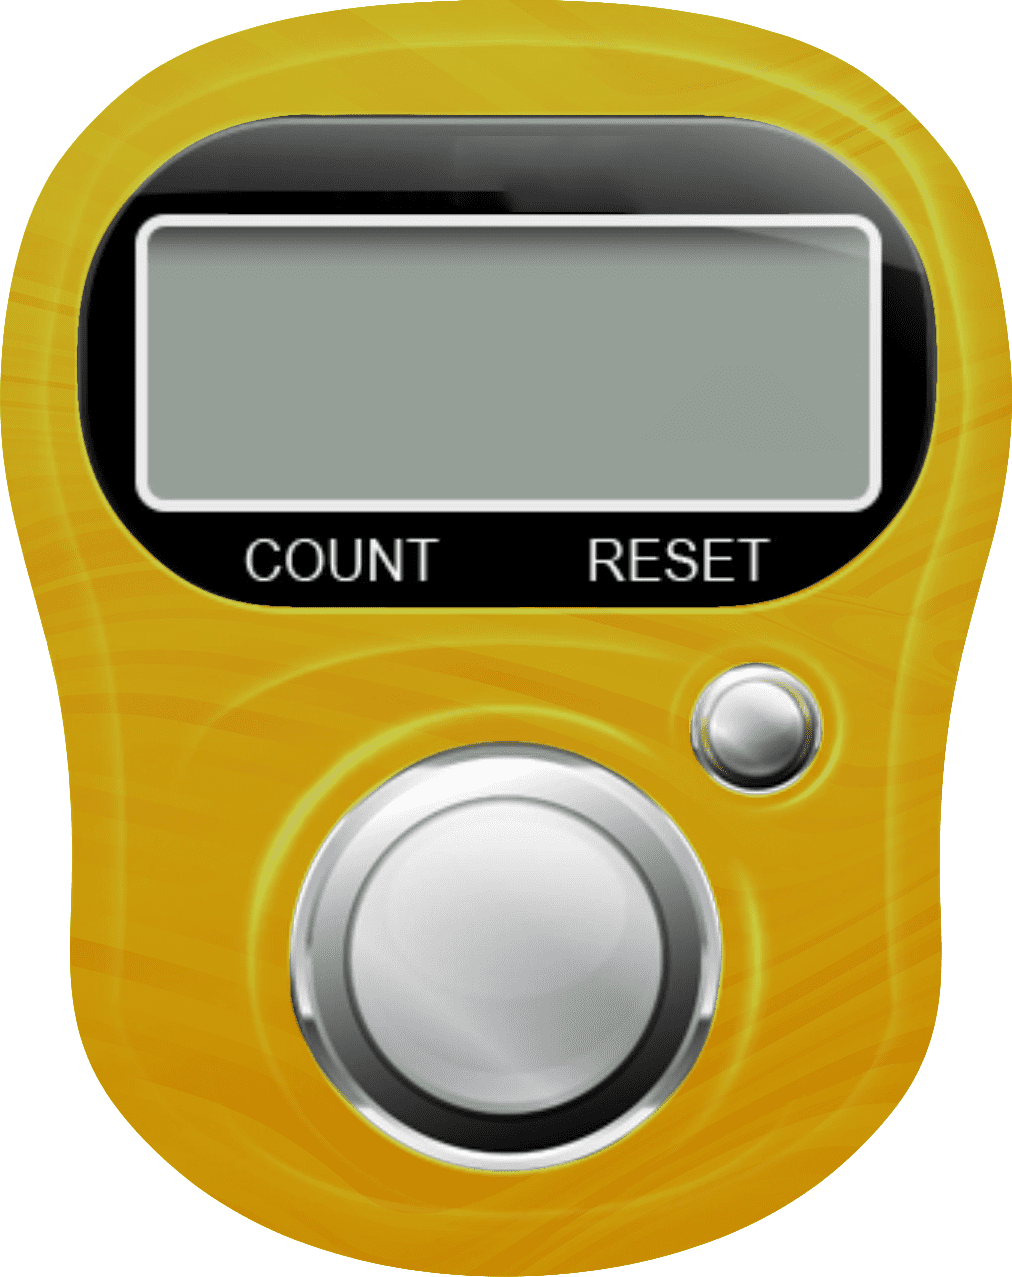
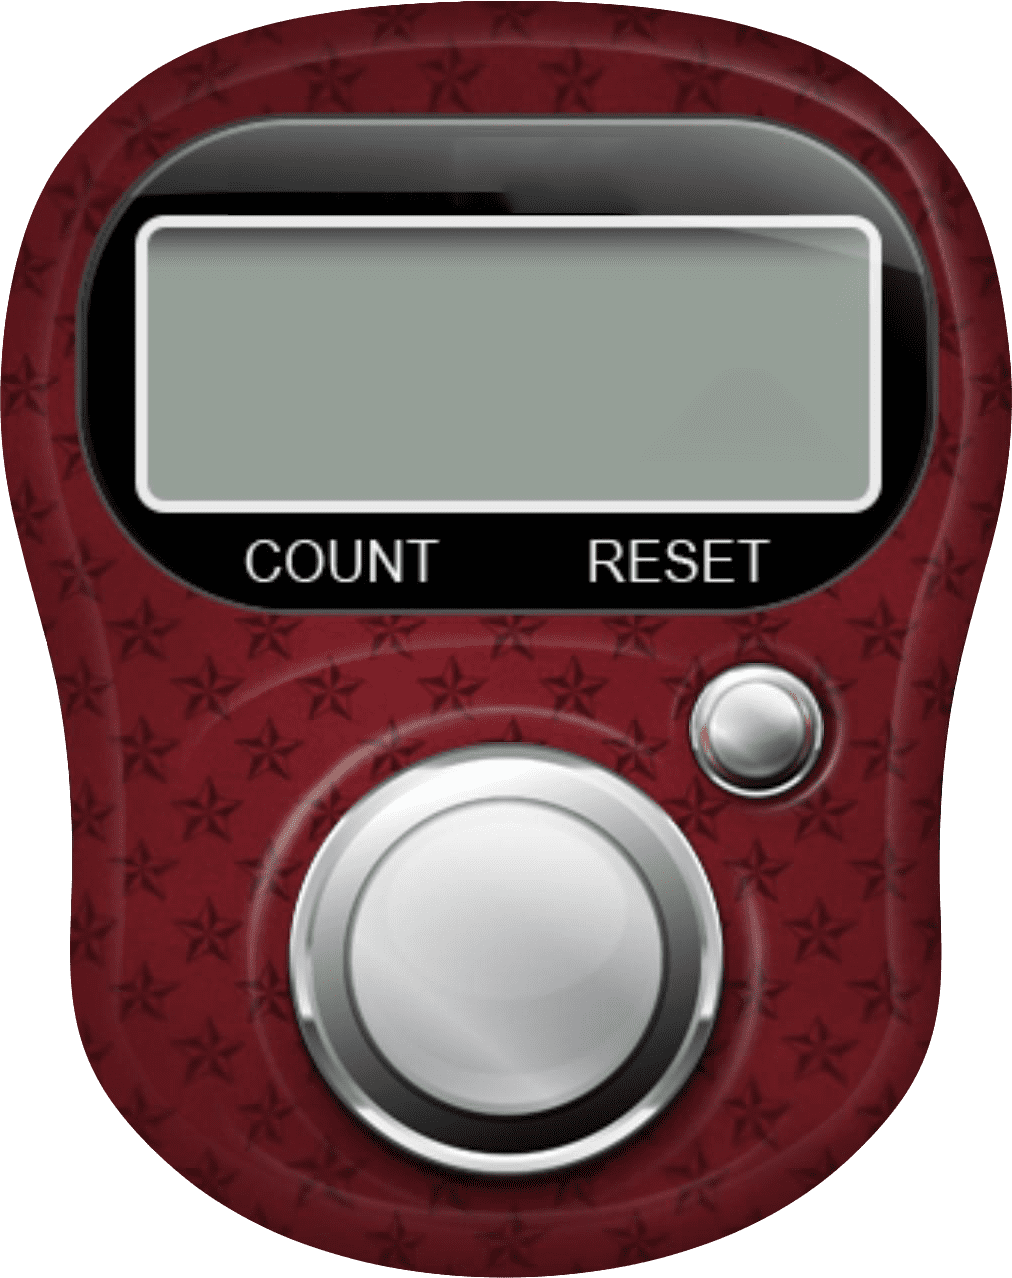
change colors

diff --git a/src/Components/Masba7a/Masba7a.jsx b/src/Components/Masba7a/Masba7a.jsx
@@ -1,7 +1,7 @@
 import React, { useEffect, useState } from 'react';
 import './masba7a.css';
-import myImage2 from './2.png';
 import myImage1 from './1.PNG';
+import myImage2 from './2.png';
 import myImage3 from './3.png';
 import myImage4 from './4.png';
 import myImage5 from './5.png';
@@ -24,9 +24,9 @@ export default function Masba7a() {
 
 
 
-  const images = [myImage2, myImage1, myImage3, myImage4,myImage5,myImage6];
-  const buttonColors = ['#C9A416', '#D5D8E1', '#232323','#263F88','#42A100','#C44E2F']; // Add colors corresponding to each image
-  const counterColors = ['#21636B', '#263F88', '#C9A416','#232323','#42A100','#C44E2F']; // Add colors corresponding to each image
+  const images = [ myImage1,myImage2, myImage3, myImage4,myImage5,myImage6];
+  const buttonColors = ['#6B1A20', '#D5D8E1', '#232323','#263F88','#000','#49331d']; // Add colors corresponding to each image
+  const counterColors = ['#263F88','#21636B', '#6B1A20','#232323','#000','#49331d']; // Add colors corresponding to each image
   
   useEffect(() => {
     // Update localStorage whenever the counter changes
@@ -133,7 +133,7 @@ export default function Masba7a() {
   return (
     <section className='text-center h-full mx-auto mt-40 lg:mt-32 py-20'>
             <audio ref={audioRef} src={alertSound} />
-      <button className="custom-color w-10 lg:w-14 h-10 lg:h-14 bg-white rounded-full fixed bottom-14 left-10" style={buttonStyle}  onClick={changeImage}></button>
+      <button className="transform hover:scale-110 scale-100 transition-transform duration-300 custom-color w-12 lg:w-14 h-12 lg:h-14 bg-white rounded-full fixed bottom-14 left-10" style={buttonStyle}  onClick={changeImage}></button>
       <div>
         {/* <h1 className='original-text-shadow' style={counterStyle}>Prayer Beads</h1> */}
         <div className="msb7a flex justify-center items-center relative ">
@@ -143,7 +143,7 @@ export default function Masba7a() {
         <img src={images[currentImage]} className='w-60 shadow-xl' alt="Seb7a" />
         <div className="btns flex justify-center items-center mx-auto text-center">
           <button onClick={changeCounter} className='original-button absolute bottom-[0.7rem] transform scale-105 hover:scale-100 transition-transform duration-300'></button>
-          <button onClick={resetCounter} className='original-button2 absolute bottom-[6.2rem] right-[3.2rem] transform scale-105 hover:scale-100 transition-transform duration-300'></button>
+          <button onClick={resetCounter} className='original-button2 absolute bottom-[6.3rem] right-[3.2rem] transform scale-105 hover:scale-100 transition-transform duration-300'></button>
         </div>
       </div>
 

diff --git a/src/Components/Masba7a/masba7a.css b/src/Components/Masba7a/masba7a.css
@@ -23,7 +23,7 @@
 }
 
 .custom-color{
-  background: linear-gradient(180deg, #D5D8E1,#21636B, #263F88,#C9A416,#21636B,#232323,#C44E2F);
+  background-image: linear-gradient(to right top, #49331d, #243d86, #49331d, #243d86, #9a9ae1, #8aa7ec, #79b3f4, #69bff8, #243d86, #49331d, #49331d, #49331d);
 }
 
 .original-button2 {
@@ -36,8 +36,8 @@
   color: #9b9b9b;
   font-size: 18px;
   border-radius: 50px;
-  width: 20px;
-  height: 20px;
+  width: 18px;
+  height: 18px;
   font-weight: bold;
   transition: 0.4s;
   box-shadow: 0px 0px 0px 2px rgba(0, 0, 0, 0.2);
@@ -60,4 +60,6 @@
   text-shadow: 4px 0px 3px rgba(5, 5, 50, 5);
   font-weight: bold;
 }
+
+
 
